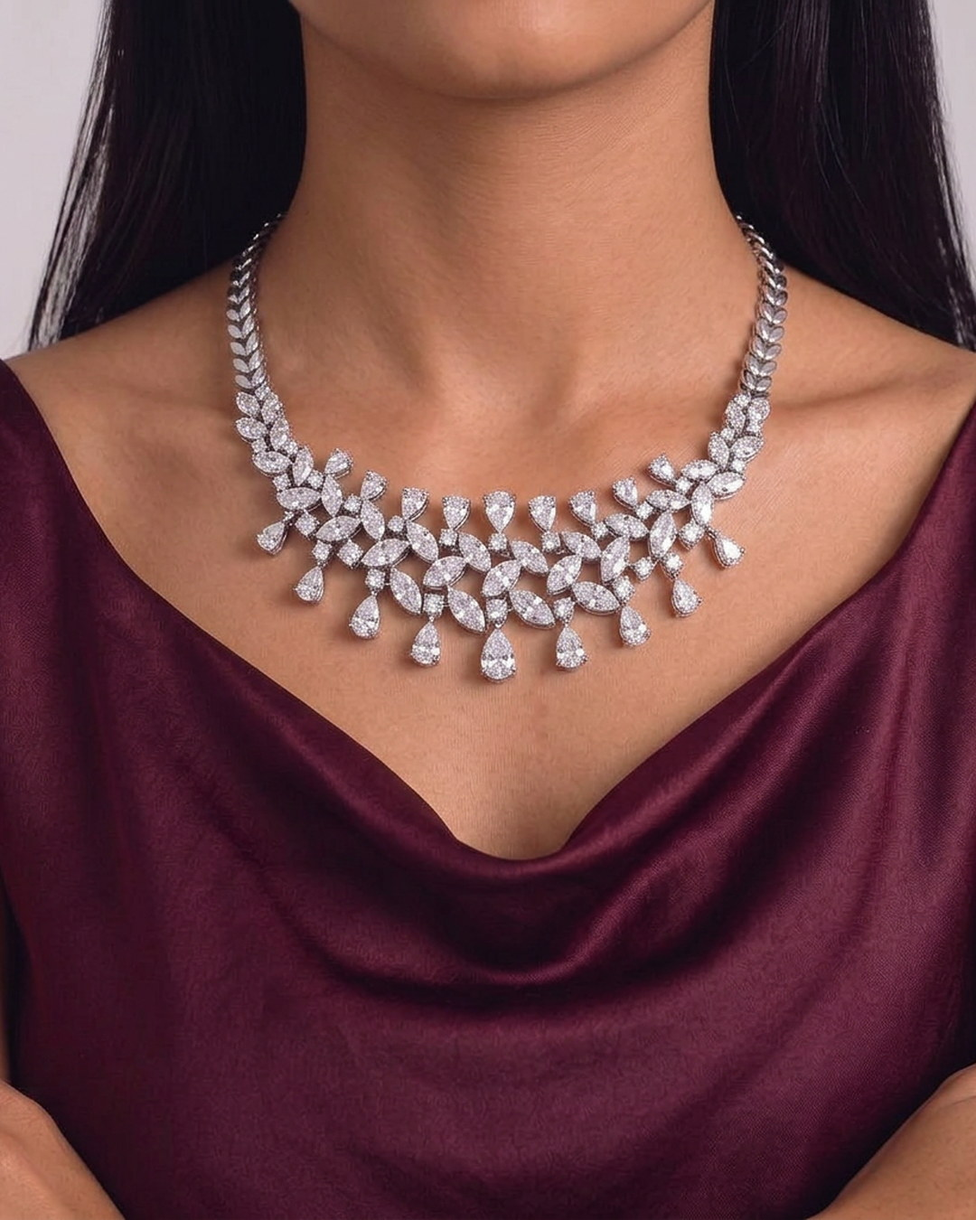
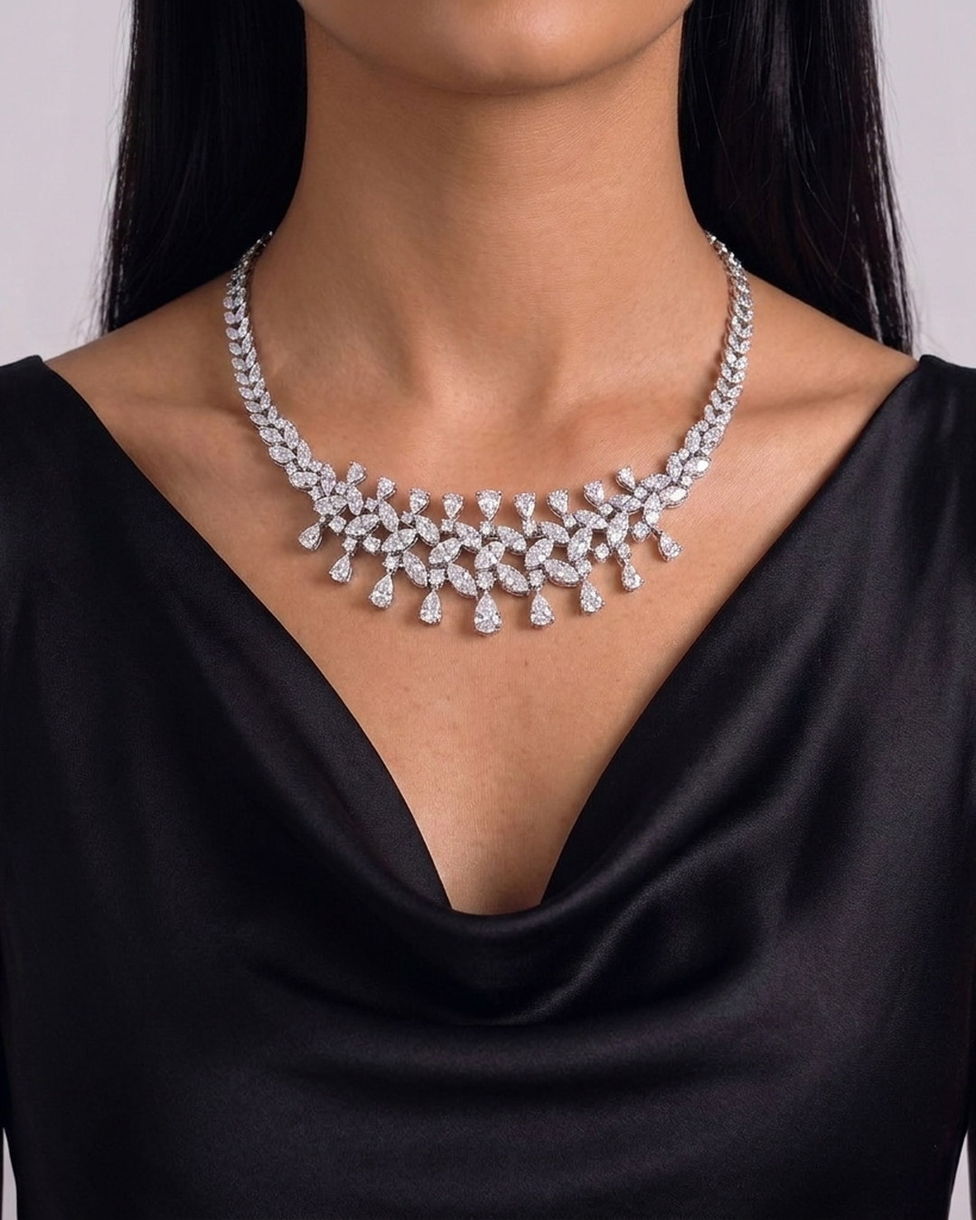
فستان أسود لصورة قلادة المركيز بدل النبيتي المتكرر
النبيتي هو نفس فستان صورة قلادة الكمثرى المتدلية، فتكرّر اللون في بطاقتين
متجاورتين. أُعيد التوليد بفستان أسود على الخلفية نفسها، ووُلّدت نسختان
واختيرت الأقرب للمنتج في حجم قطرات الكمثرى وانفصالها.

Claude-Session: https://claude.ai/code/session_019pVFaNZBvzsjteZn9rJSNR

diff --git a/jewellery.html b/jewellery.html
@@ -34,7 +34,7 @@
 <section class="page-head"><div class="wrap"><h1>المجوهرات</h1><p>4 قطعة · اختر الفئة أو تصفّح الكل.</p></div></section>
 <section class="section"><div class="wrap">
   <div class="chips"><a class="chip on" href="jewellery">الكل</a><a class="chip" href="jewellery/rings">خواتم</a><a class="chip" href="jewellery/necklaces">قلائد</a><a class="chip" href="jewellery/earrings">أقراط</a></div>
-  <div class="grid"><a class="card rv" href="piece/pear-quartet-ring"><span class="card-img has-hover"><img src="assets/catalogue/pear-quartet-ring.jpg?v=afaf307e" alt="خاتم الكمثرى الرباعي" loading="lazy"><img class="card-hover" src="assets/catalogue/pear-quartet-ring-model.jpg?v=ae86ff51" alt="" loading="lazy"></span><span class="card-body"><span class="card-top"><span class="card-name">خاتم الكمثرى الرباعي</span><i class="card-rule"></i><span class="card-price">اطلب السعر</span></span><span class="card-meta">ذهب أبيض</span></span></a><a class="card rv" href="piece/pear-drop-necklace"><span class="card-img has-hover"><img src="assets/catalogue/pear-drop-necklace.jpg?v=68568751" alt="قلادة الكمثرى المتدلية" loading="lazy"><img class="card-hover" src="assets/catalogue/pear-drop-necklace-model.jpg?v=91d00fc5" alt="" loading="lazy"></span><span class="card-body"><span class="card-top"><span class="card-name">قلادة الكمثرى المتدلية</span><i class="card-rule"></i><span class="card-price">اطلب السعر</span></span><span class="card-meta">ذهب أبيض</span></span></a><a class="card rv" href="piece/marquise-collar-necklace"><span class="card-img has-hover"><img src="assets/catalogue/marquise-collar-necklace.jpg?v=a2a0348d" alt="قلادة المركيز العريضة" loading="lazy"><img class="card-hover" src="assets/catalogue/marquise-collar-necklace-model.jpg?v=589ed026" alt="" loading="lazy"></span><span class="card-body"><span class="card-top"><span class="card-name">قلادة المركيز العريضة</span><i class="card-rule"></i><span class="card-price">اطلب السعر</span></span><span class="card-meta">ذهب أبيض</span></span></a><a class="card rv" href="piece/cascade-earrings"><span class="card-img has-hover"><img src="assets/catalogue/cascade-earrings.jpg?v=44429a73" alt="أقراط الشلال" loading="lazy"><img class="card-hover" src="assets/catalogue/cascade-earrings-model.jpg?v=7e8f4a0d" alt="" loading="lazy"></span><span class="card-body"><span class="card-top"><span class="card-name">أقراط الشلال</span><i class="card-rule"></i><span class="card-price">اطلب السعر</span></span><span class="card-meta">ذهب أبيض</span></span></a></div>
+  <div class="grid"><a class="card rv" href="piece/pear-quartet-ring"><span class="card-img has-hover"><img src="assets/catalogue/pear-quartet-ring.jpg?v=afaf307e" alt="خاتم الكمثرى الرباعي" loading="lazy"><img class="card-hover" src="assets/catalogue/pear-quartet-ring-model.jpg?v=ae86ff51" alt="" loading="lazy"></span><span class="card-body"><span class="card-top"><span class="card-name">خاتم الكمثرى الرباعي</span><i class="card-rule"></i><span class="card-price">اطلب السعر</span></span><span class="card-meta">ذهب أبيض</span></span></a><a class="card rv" href="piece/pear-drop-necklace"><span class="card-img has-hover"><img src="assets/catalogue/pear-drop-necklace.jpg?v=68568751" alt="قلادة الكمثرى المتدلية" loading="lazy"><img class="card-hover" src="assets/catalogue/pear-drop-necklace-model.jpg?v=91d00fc5" alt="" loading="lazy"></span><span class="card-body"><span class="card-top"><span class="card-name">قلادة الكمثرى المتدلية</span><i class="card-rule"></i><span class="card-price">اطلب السعر</span></span><span class="card-meta">ذهب أبيض</span></span></a><a class="card rv" href="piece/marquise-collar-necklace"><span class="card-img has-hover"><img src="assets/catalogue/marquise-collar-necklace.jpg?v=a2a0348d" alt="قلادة المركيز العريضة" loading="lazy"><img class="card-hover" src="assets/catalogue/marquise-collar-necklace-model.jpg?v=83ee3f90" alt="" loading="lazy"></span><span class="card-body"><span class="card-top"><span class="card-name">قلادة المركيز العريضة</span><i class="card-rule"></i><span class="card-price">اطلب السعر</span></span><span class="card-meta">ذهب أبيض</span></span></a><a class="card rv" href="piece/cascade-earrings"><span class="card-img has-hover"><img src="assets/catalogue/cascade-earrings.jpg?v=44429a73" alt="أقراط الشلال" loading="lazy"><img class="card-hover" src="assets/catalogue/cascade-earrings-model.jpg?v=7e8f4a0d" alt="" loading="lazy"></span><span class="card-body"><span class="card-top"><span class="card-name">أقراط الشلال</span><i class="card-rule"></i><span class="card-price">اطلب السعر</span></span><span class="card-meta">ذهب أبيض</span></span></a></div>
 </div></section>
 <section class="cta"><img class="cta-bg" src="assets/editorial/campaign-hero.jpg" alt="" loading="lazy"><div class="wrap"><h2>ما لقيت اللي تبيه؟</h2><p>راسلنا ووصف لنا القطعة، أو احجز زيارة للمعرض وشوفها بنفسك.</p><div class="cta-acts"><a class="btn btn-gold" href="https://wa.me/966138320814?text=%D8%A7%D9%84%D8%B3%D9%84%D8%A7%D9%85%20%D8%B9%D9%84%D9%8A%D9%83%D9%85%D8%8C%20%D8%A3%D8%A8%D8%AD%D8%AB%20%D8%B9%D9%86%20%D9%82%D8%B7%D8%B9%D8%A9%20%D9%85%D8%B9%D9%8A%D9%86%D8%A9." target="_blank" rel="noopener">راسلنا واتساب</a><a class="btn btn-ghost" href="contact">زيارة المعرض</a></div></div></section></main>
 <footer class="footer">

diff --git a/index.html b/index.html
@@ -56,7 +56,7 @@
 </div></section>
 <section class="section on-light"><div class="wrap">
   <div class="sec-head rv"><span class="sec-eyebrow">✳ &nbsp;مختارات</span>    <div class="sec-top"><h2>قطع اخترناها بأنفسنا</h2><a class="more" href="jewellery">شوف الكل ←</a></div></div>
-  <div class="grid"><a class="card rv" href="piece/pear-quartet-ring"><span class="card-img has-hover"><img src="assets/catalogue/pear-quartet-ring.jpg?v=afaf307e" alt="خاتم الكمثرى الرباعي" loading="lazy"><img class="card-hover" src="assets/catalogue/pear-quartet-ring-model.jpg?v=ae86ff51" alt="" loading="lazy"></span><span class="card-body"><span class="card-top"><span class="card-name">خاتم الكمثرى الرباعي</span><i class="card-rule"></i><span class="card-price">اطلب السعر</span></span><span class="card-meta">ذهب أبيض</span></span></a><a class="card rv" href="piece/pear-drop-necklace"><span class="card-img has-hover"><img src="assets/catalogue/pear-drop-necklace.jpg?v=68568751" alt="قلادة الكمثرى المتدلية" loading="lazy"><img class="card-hover" src="assets/catalogue/pear-drop-necklace-model.jpg?v=91d00fc5" alt="" loading="lazy"></span><span class="card-body"><span class="card-top"><span class="card-name">قلادة الكمثرى المتدلية</span><i class="card-rule"></i><span class="card-price">اطلب السعر</span></span><span class="card-meta">ذهب أبيض</span></span></a><a class="card rv" href="piece/marquise-collar-necklace"><span class="card-img has-hover"><img src="assets/catalogue/marquise-collar-necklace.jpg?v=a2a0348d" alt="قلادة المركيز العريضة" loading="lazy"><img class="card-hover" src="assets/catalogue/marquise-collar-necklace-model.jpg?v=589ed026" alt="" loading="lazy"></span><span class="card-body"><span class="card-top"><span class="card-name">قلادة المركيز العريضة</span><i class="card-rule"></i><span class="card-price">اطلب السعر</span></span><span class="card-meta">ذهب أبيض</span></span></a><a class="card rv" href="piece/cascade-earrings"><span class="card-img has-hover"><img src="assets/catalogue/cascade-earrings.jpg?v=44429a73" alt="أقراط الشلال" loading="lazy"><img class="card-hover" src="assets/catalogue/cascade-earrings-model.jpg?v=7e8f4a0d" alt="" loading="lazy"></span><span class="card-body"><span class="card-top"><span class="card-name">أقراط الشلال</span><i class="card-rule"></i><span class="card-price">اطلب السعر</span></span><span class="card-meta">ذهب أبيض</span></span></a></div>
+  <div class="grid"><a class="card rv" href="piece/pear-quartet-ring"><span class="card-img has-hover"><img src="assets/catalogue/pear-quartet-ring.jpg?v=afaf307e" alt="خاتم الكمثرى الرباعي" loading="lazy"><img class="card-hover" src="assets/catalogue/pear-quartet-ring-model.jpg?v=ae86ff51" alt="" loading="lazy"></span><span class="card-body"><span class="card-top"><span class="card-name">خاتم الكمثرى الرباعي</span><i class="card-rule"></i><span class="card-price">اطلب السعر</span></span><span class="card-meta">ذهب أبيض</span></span></a><a class="card rv" href="piece/pear-drop-necklace"><span class="card-img has-hover"><img src="assets/catalogue/pear-drop-necklace.jpg?v=68568751" alt="قلادة الكمثرى المتدلية" loading="lazy"><img class="card-hover" src="assets/catalogue/pear-drop-necklace-model.jpg?v=91d00fc5" alt="" loading="lazy"></span><span class="card-body"><span class="card-top"><span class="card-name">قلادة الكمثرى المتدلية</span><i class="card-rule"></i><span class="card-price">اطلب السعر</span></span><span class="card-meta">ذهب أبيض</span></span></a><a class="card rv" href="piece/marquise-collar-necklace"><span class="card-img has-hover"><img src="assets/catalogue/marquise-collar-necklace.jpg?v=a2a0348d" alt="قلادة المركيز العريضة" loading="lazy"><img class="card-hover" src="assets/catalogue/marquise-collar-necklace-model.jpg?v=83ee3f90" alt="" loading="lazy"></span><span class="card-body"><span class="card-top"><span class="card-name">قلادة المركيز العريضة</span><i class="card-rule"></i><span class="card-price">اطلب السعر</span></span><span class="card-meta">ذهب أبيض</span></span></a><a class="card rv" href="piece/cascade-earrings"><span class="card-img has-hover"><img src="assets/catalogue/cascade-earrings.jpg?v=44429a73" alt="أقراط الشلال" loading="lazy"><img class="card-hover" src="assets/catalogue/cascade-earrings-model.jpg?v=7e8f4a0d" alt="" loading="lazy"></span><span class="card-body"><span class="card-top"><span class="card-name">أقراط الشلال</span><i class="card-rule"></i><span class="card-price">اطلب السعر</span></span><span class="card-meta">ذهب أبيض</span></span></a></div>
 </div></section>
 <section class="section"><div class="wrap">
   <div class="sec-head rv"><span class="sec-eyebrow">✳ &nbsp;المناسبات</span>    <h2>تشتري لمناسبة؟</h2><p>أغلب الناس يشترون لمناسبة، لا لقطعة بعينها. اختر المناسبة ونبسّط لك القرار.</p></div>

diff --git a/occasions/wedding.html b/occasions/wedding.html
@@ -33,7 +33,7 @@
 <main id="main">
 <section class="page-head"><div class="wrap"><nav class="crumb"><a href="../">الرئيسية</a> · <a href="../occasions">المناسبات</a> · <span>الزواج والملكة</span></nav><h1>الزواج والملكة</h1><p>أطقم وقطع تليق بليلة العمر، ويمكن تنفيذها بتصميم خاص للعروس.</p></div></section>
 <section class="section"><div class="wrap">  <div class="guide">ننصح بالبدء قبل الموعد بشهرين على الأقل إذا كان التصميم خاصاً.</div>
-  <div class="grid"><a class="card rv" href="../piece/pear-drop-necklace"><span class="card-img has-hover"><img src="../assets/catalogue/pear-drop-necklace.jpg?v=68568751" alt="قلادة الكمثرى المتدلية" loading="lazy"><img class="card-hover" src="../assets/catalogue/pear-drop-necklace-model.jpg?v=91d00fc5" alt="" loading="lazy"></span><span class="card-body"><span class="card-top"><span class="card-name">قلادة الكمثرى المتدلية</span><i class="card-rule"></i><span class="card-price">اطلب السعر</span></span><span class="card-meta">ذهب أبيض</span></span></a><a class="card rv" href="../piece/marquise-collar-necklace"><span class="card-img has-hover"><img src="../assets/catalogue/marquise-collar-necklace.jpg?v=a2a0348d" alt="قلادة المركيز العريضة" loading="lazy"><img class="card-hover" src="../assets/catalogue/marquise-collar-necklace-model.jpg?v=589ed026" alt="" loading="lazy"></span><span class="card-body"><span class="card-top"><span class="card-name">قلادة المركيز العريضة</span><i class="card-rule"></i><span class="card-price">اطلب السعر</span></span><span class="card-meta">ذهب أبيض</span></span></a><a class="card rv" href="../piece/cascade-earrings"><span class="card-img has-hover"><img src="../assets/catalogue/cascade-earrings.jpg?v=44429a73" alt="أقراط الشلال" loading="lazy"><img class="card-hover" src="../assets/catalogue/cascade-earrings-model.jpg?v=7e8f4a0d" alt="" loading="lazy"></span><span class="card-body"><span class="card-top"><span class="card-name">أقراط الشلال</span><i class="card-rule"></i><span class="card-price">اطلب السعر</span></span><span class="card-meta">ذهب أبيض</span></span></a></div>
+  <div class="grid"><a class="card rv" href="../piece/pear-drop-necklace"><span class="card-img has-hover"><img src="../assets/catalogue/pear-drop-necklace.jpg?v=68568751" alt="قلادة الكمثرى المتدلية" loading="lazy"><img class="card-hover" src="../assets/catalogue/pear-drop-necklace-model.jpg?v=91d00fc5" alt="" loading="lazy"></span><span class="card-body"><span class="card-top"><span class="card-name">قلادة الكمثرى المتدلية</span><i class="card-rule"></i><span class="card-price">اطلب السعر</span></span><span class="card-meta">ذهب أبيض</span></span></a><a class="card rv" href="../piece/marquise-collar-necklace"><span class="card-img has-hover"><img src="../assets/catalogue/marquise-collar-necklace.jpg?v=a2a0348d" alt="قلادة المركيز العريضة" loading="lazy"><img class="card-hover" src="../assets/catalogue/marquise-collar-necklace-model.jpg?v=83ee3f90" alt="" loading="lazy"></span><span class="card-body"><span class="card-top"><span class="card-name">قلادة المركيز العريضة</span><i class="card-rule"></i><span class="card-price">اطلب السعر</span></span><span class="card-meta">ذهب أبيض</span></span></a><a class="card rv" href="../piece/cascade-earrings"><span class="card-img has-hover"><img src="../assets/catalogue/cascade-earrings.jpg?v=44429a73" alt="أقراط الشلال" loading="lazy"><img class="card-hover" src="../assets/catalogue/cascade-earrings-model.jpg?v=7e8f4a0d" alt="" loading="lazy"></span><span class="card-body"><span class="card-top"><span class="card-name">أقراط الشلال</span><i class="card-rule"></i><span class="card-price">اطلب السعر</span></span><span class="card-meta">ذهب أبيض</span></span></a></div>
 </div></section>
 <section class="cta"><img class="cta-bg" src="../assets/editorial/campaign-hero.jpg" alt="" loading="lazy"><div class="wrap"><h2>ما لقيت اللي تبيه؟</h2><p>راسلنا ووصف لنا القطعة، أو احجز زيارة للمعرض وشوفها بنفسك.</p><div class="cta-acts"><a class="btn btn-gold" href="https://wa.me/966138320814?text=%D8%A7%D9%84%D8%B3%D9%84%D8%A7%D9%85%20%D8%B9%D9%84%D9%8A%D9%83%D9%85%D8%8C%20%D8%A3%D8%A8%D8%AD%D8%AB%20%D8%B9%D9%86%20%D9%82%D8%B7%D8%B9%D8%A9%20%D9%85%D8%B9%D9%8A%D9%86%D8%A9." target="_blank" rel="noopener">راسلنا واتساب</a><a class="btn btn-ghost" href="../contact">زيارة المعرض</a></div></div></section></main>
 <footer class="footer">

diff --git a/jewellery/necklaces.html b/jewellery/necklaces.html
@@ -34,7 +34,7 @@
 <section class="page-head"><div class="wrap"><nav class="crumb"><a href="../">الرئيسية</a> · <a href="../jewellery">المجوهرات</a> · <span>قلائد</span></nav><h1>قلائد</h1><p>قلائد ناعمة وقطع بارزة للمناسبات</p></div></section>
 <section class="section"><div class="wrap">
   <div class="chips"><a class="chip" href="../jewellery">الكل</a><a class="chip" href="rings">خواتم</a><a class="chip on" href="necklaces">قلائد</a><a class="chip" href="earrings">أقراط</a></div>
-  <div class="grid"><a class="card rv" href="../piece/pear-drop-necklace"><span class="card-img has-hover"><img src="../assets/catalogue/pear-drop-necklace.jpg?v=68568751" alt="قلادة الكمثرى المتدلية" loading="lazy"><img class="card-hover" src="../assets/catalogue/pear-drop-necklace-model.jpg?v=91d00fc5" alt="" loading="lazy"></span><span class="card-body"><span class="card-top"><span class="card-name">قلادة الكمثرى المتدلية</span><i class="card-rule"></i><span class="card-price">اطلب السعر</span></span><span class="card-meta">ذهب أبيض</span></span></a><a class="card rv" href="../piece/marquise-collar-necklace"><span class="card-img has-hover"><img src="../assets/catalogue/marquise-collar-necklace.jpg?v=a2a0348d" alt="قلادة المركيز العريضة" loading="lazy"><img class="card-hover" src="../assets/catalogue/marquise-collar-necklace-model.jpg?v=589ed026" alt="" loading="lazy"></span><span class="card-body"><span class="card-top"><span class="card-name">قلادة المركيز العريضة</span><i class="card-rule"></i><span class="card-price">اطلب السعر</span></span><span class="card-meta">ذهب أبيض</span></span></a></div>
+  <div class="grid"><a class="card rv" href="../piece/pear-drop-necklace"><span class="card-img has-hover"><img src="../assets/catalogue/pear-drop-necklace.jpg?v=68568751" alt="قلادة الكمثرى المتدلية" loading="lazy"><img class="card-hover" src="../assets/catalogue/pear-drop-necklace-model.jpg?v=91d00fc5" alt="" loading="lazy"></span><span class="card-body"><span class="card-top"><span class="card-name">قلادة الكمثرى المتدلية</span><i class="card-rule"></i><span class="card-price">اطلب السعر</span></span><span class="card-meta">ذهب أبيض</span></span></a><a class="card rv" href="../piece/marquise-collar-necklace"><span class="card-img has-hover"><img src="../assets/catalogue/marquise-collar-necklace.jpg?v=a2a0348d" alt="قلادة المركيز العريضة" loading="lazy"><img class="card-hover" src="../assets/catalogue/marquise-collar-necklace-model.jpg?v=83ee3f90" alt="" loading="lazy"></span><span class="card-body"><span class="card-top"><span class="card-name">قلادة المركيز العريضة</span><i class="card-rule"></i><span class="card-price">اطلب السعر</span></span><span class="card-meta">ذهب أبيض</span></span></a></div>
 </div></section>
 <section class="cta"><img class="cta-bg" src="../assets/editorial/campaign-hero.jpg" alt="" loading="lazy"><div class="wrap"><h2>ما لقيت اللي تبيه؟</h2><p>راسلنا ووصف لنا القطعة، أو احجز زيارة للمعرض وشوفها بنفسك.</p><div class="cta-acts"><a class="btn btn-gold" href="https://wa.me/966138320814?text=%D8%A7%D9%84%D8%B3%D9%84%D8%A7%D9%85%20%D8%B9%D9%84%D9%8A%D9%83%D9%85%D8%8C%20%D8%A3%D8%A8%D8%AD%D8%AB%20%D8%B9%D9%86%20%D9%82%D8%B7%D8%B9%D8%A9%20%D9%85%D8%B9%D9%8A%D9%86%D8%A9." target="_blank" rel="noopener">راسلنا واتساب</a><a class="btn btn-ghost" href="../contact">زيارة المعرض</a></div></div></section></main>
 <footer class="footer">

diff --git a/piece/pear-drop-necklace.html b/piece/pear-drop-necklace.html
@@ -44,7 +44,7 @@
     <a class="piece-visit" href="../contact">أو زر المعرض وشوفها على الطبيعة ←</a>
   </div>
 </div></section>
-<section class="section on-light"><div class="wrap"><div class="sec-head rv"><span class="sec-eyebrow">✳ &nbsp;من نفس الفئة</span><h2>قطع مشابهة</h2></div><div class="grid"><a class="card rv" href="../piece/marquise-collar-necklace"><span class="card-img has-hover"><img src="../assets/catalogue/marquise-collar-necklace.jpg?v=a2a0348d" alt="قلادة المركيز العريضة" loading="lazy"><img class="card-hover" src="../assets/catalogue/marquise-collar-necklace-model.jpg?v=589ed026" alt="" loading="lazy"></span><span class="card-body"><span class="card-top"><span class="card-name">قلادة المركيز العريضة</span><i class="card-rule"></i><span class="card-price">اطلب السعر</span></span><span class="card-meta">ذهب أبيض</span></span></a></div></div></section></main>
+<section class="section on-light"><div class="wrap"><div class="sec-head rv"><span class="sec-eyebrow">✳ &nbsp;من نفس الفئة</span><h2>قطع مشابهة</h2></div><div class="grid"><a class="card rv" href="../piece/marquise-collar-necklace"><span class="card-img has-hover"><img src="../assets/catalogue/marquise-collar-necklace.jpg?v=a2a0348d" alt="قلادة المركيز العريضة" loading="lazy"><img class="card-hover" src="../assets/catalogue/marquise-collar-necklace-model.jpg?v=83ee3f90" alt="" loading="lazy"></span><span class="card-body"><span class="card-top"><span class="card-name">قلادة المركيز العريضة</span><i class="card-rule"></i><span class="card-price">اطلب السعر</span></span><span class="card-meta">ذهب أبيض</span></span></a></div></div></section></main>
 <footer class="footer">
   <div class="foot-grid">
     <div>

diff --git a/piece/marquise-collar-necklace.html b/piece/marquise-collar-necklace.html
@@ -32,7 +32,7 @@
 </header>
 <main id="main">
 <section class="piece"><div class="wrap piece-grid">
-  <div class="piece-media rv has-hover"><img src="../assets/catalogue/marquise-collar-necklace.jpg?v=a2a0348d" alt="قلادة المركيز العريضة"><img class="card-hover" src="../assets/catalogue/marquise-collar-necklace-model.jpg?v=589ed026" alt="قلادة المركيز العريضة على الموديل" loading="lazy"></div>
+  <div class="piece-media rv has-hover"><img src="../assets/catalogue/marquise-collar-necklace.jpg?v=a2a0348d" alt="قلادة المركيز العريضة"><img class="card-hover" src="../assets/catalogue/marquise-collar-necklace-model.jpg?v=83ee3f90" alt="قلادة المركيز العريضة على الموديل" loading="lazy"></div>
   <div class="piece-info">
     <nav class="crumb"><a href="../">الرئيسية</a> · <a href="../jewellery">المجوهرات</a> · <a href="../jewellery/necklaces">قلائد</a></nav>
     <h1>قلادة المركيز العريضة</h1>

diff --git a/assets/sources/README.md b/assets/sources/README.md
@@ -10,6 +10,9 @@
   والخلفية من جلسة التصوير الحقيقية) من مستودع `eclipseagency/Elkhamees-jewelry-`.
 - ولّدت نسختان وقُوبلتا بصورة المنتج حجراً حجراً؛ المختارة هي الأقرب في
   عرض العنقود وحجم القطرات وشكل سلسلة الأوراق.
+- **الفستان أسود** بقرار مصطفى (2026-07-30): النسخة الأولى كانت بفستان
+  نبيتي، وهو نفس فستان صورة قلادة الكمثرى المتدلية، فتكرّر اللون في بطاقتين
+  متجاورتين. أُعيد التوليد بفستان أسود ساتان على نفس الخلفية الرمادية.
 - تُستخدم كصورة هوفر فقط. صورة المنتج المعروضة في البطاقة تصوير حقيقي.
 - **تُستبدل بصورة تصوير حقيقية أول ما تصل من الدار.** لا تُوصف للعميل
   كصورة فوتوغرافية للقطعة.
